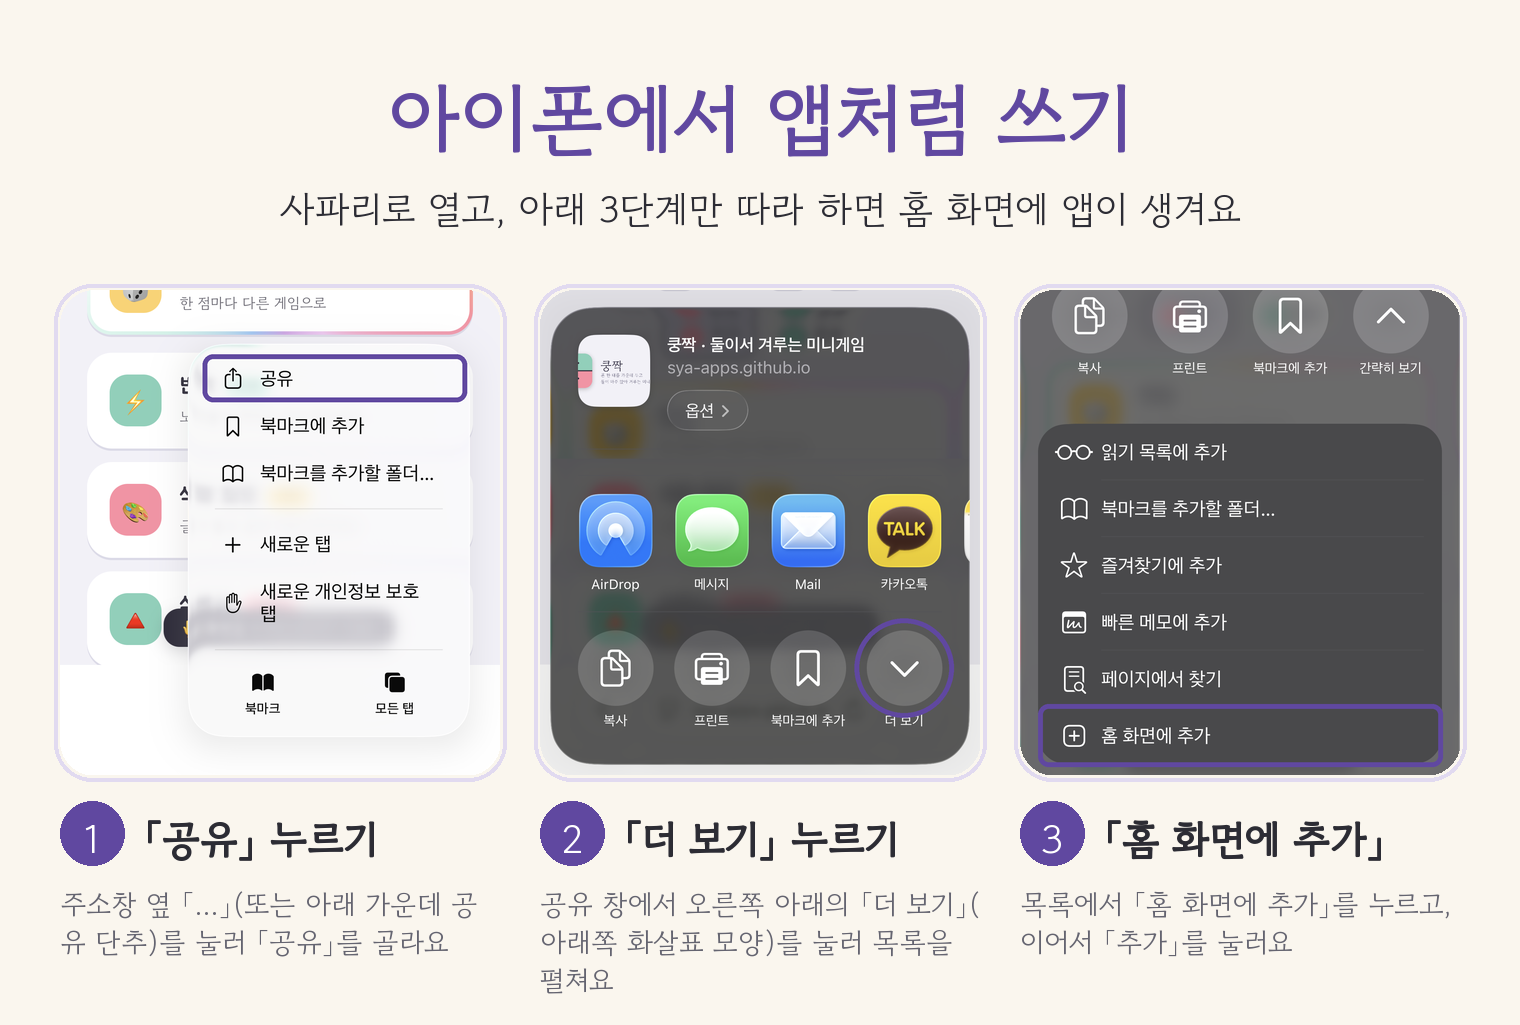
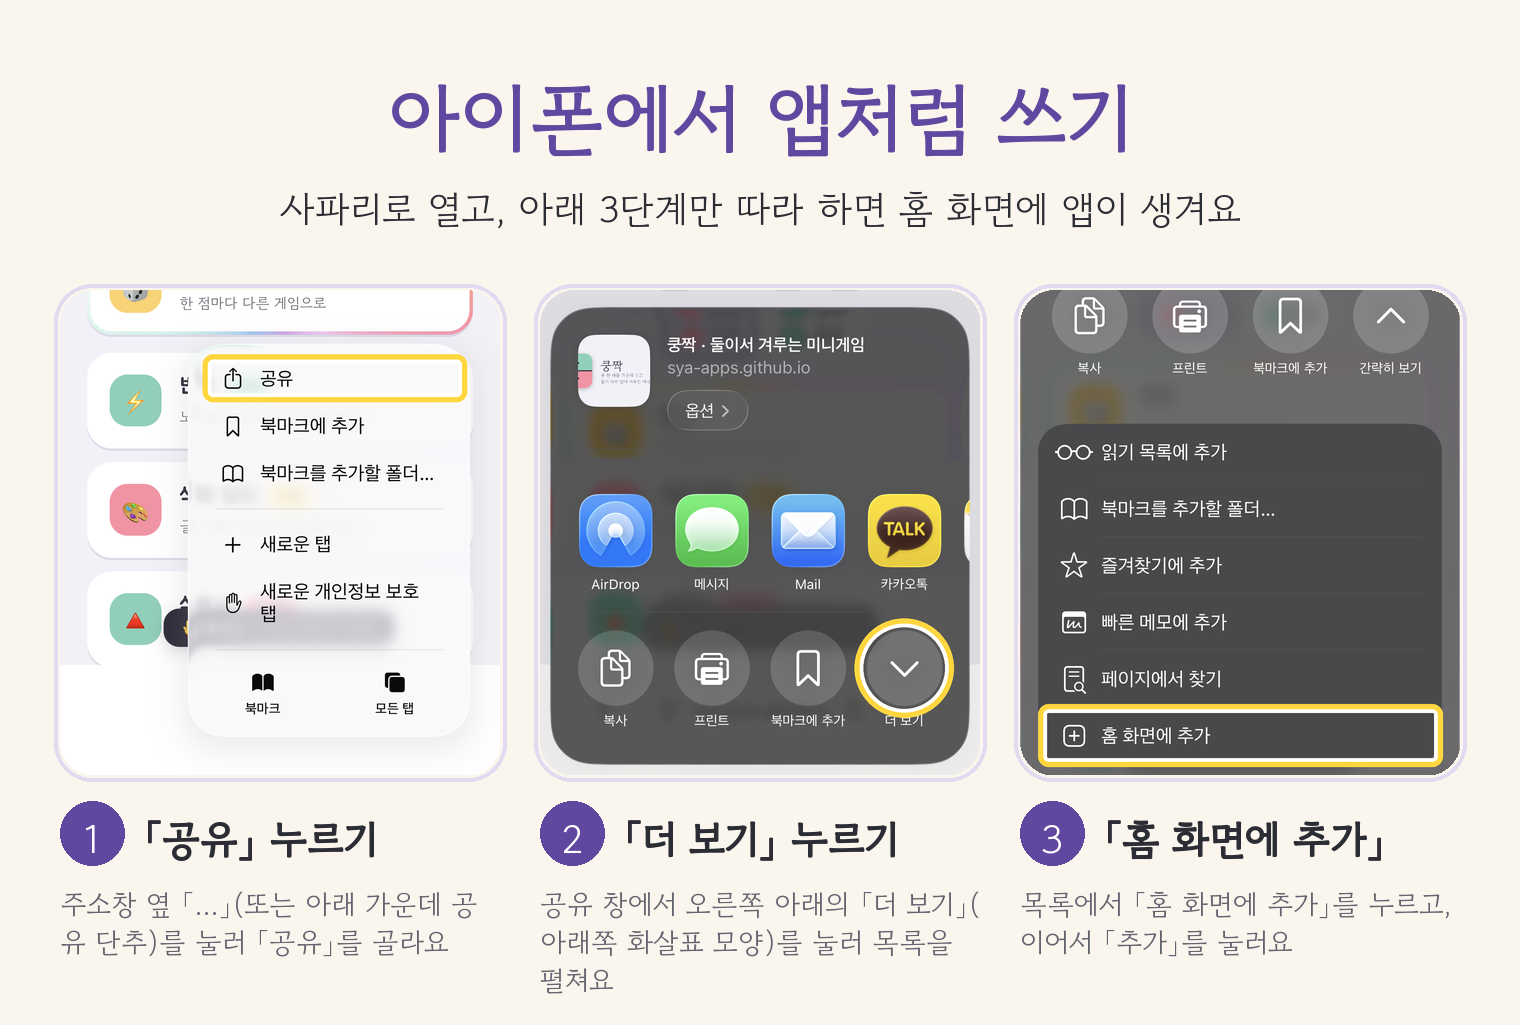
iPhone guide: brighter markers, image-only page, footer link on home

diff --git a/ios/index.html b/ios/index.html
@@ -11,19 +11,14 @@
 <meta property="og:image" content="https://sya-apps.github.io/ios/og-image.png">
 <meta property="og:url" content="https://sya-apps.github.io/ios/">
 <style>
-  @font-face { font-family: "GowunDodum"; src: local("Gowun Dodum"); }
-  html, body { margin: 0; background: #faf6ee; color: #2c2c34; font-family: "Gowun Dodum", "Apple SD Gothic Neo", system-ui, sans-serif; }
-  main { max-width: 760px; margin: 0 auto; padding: 24px 16px 40px; text-align: center; }
-  h1 { font-size: 26px; color: #6048a0; margin: 8px 0 6px; }
-  p { font-size: 16px; color: #555; margin: 0 0 16px; }
-  img { width: 100%; height: auto; border-radius: 16px; }
+  html, body { margin: 0; background: #faf6ee; }
+  main { max-width: 760px; margin: 0 auto; padding: 12px 8px 24px; }
+  img { display: block; width: 100%; height: auto; }
 </style>
 </head>
 <body>
 <main>
-  <h1>아이폰에서 앱처럼 쓰기</h1>
-  <p>사파리로 열고, 아래 3단계만 따라 하면 홈 화면에 앱이 생겨요.</p>
-  <img src="../guide/ios-add-to-home.png" alt="사파리 공유, 더 보기, 홈 화면에 추가 순서 안내">
+  <img src="../guide/ios-add-to-home.png" alt="아이폰에서 앱처럼 쓰기: 사파리 공유, 더 보기, 홈 화면에 추가 순서 안내">
 </main>
 </body>
 </html>

diff --git a/index.html b/index.html
@@ -312,6 +312,7 @@
     © 2026 Sodam Apps
     <!-- 홈화면 «앱 창» 에는 주소창이 없어서, 여기 링크가 없으면 앱 창 안에서 점검 페이지를
          열 방법이 없다. 사용자가 겪는 문제는 바로 그 앱 창 안에서 난다(2026-09-11). -->
+    <a class="diag" href="./ios/">아이폰에서 앱처럼 쓰기</a>
     <a class="diag" href="./diag.html">앱이 안 열리나요? 점검하기</a>
   </footer>
 
